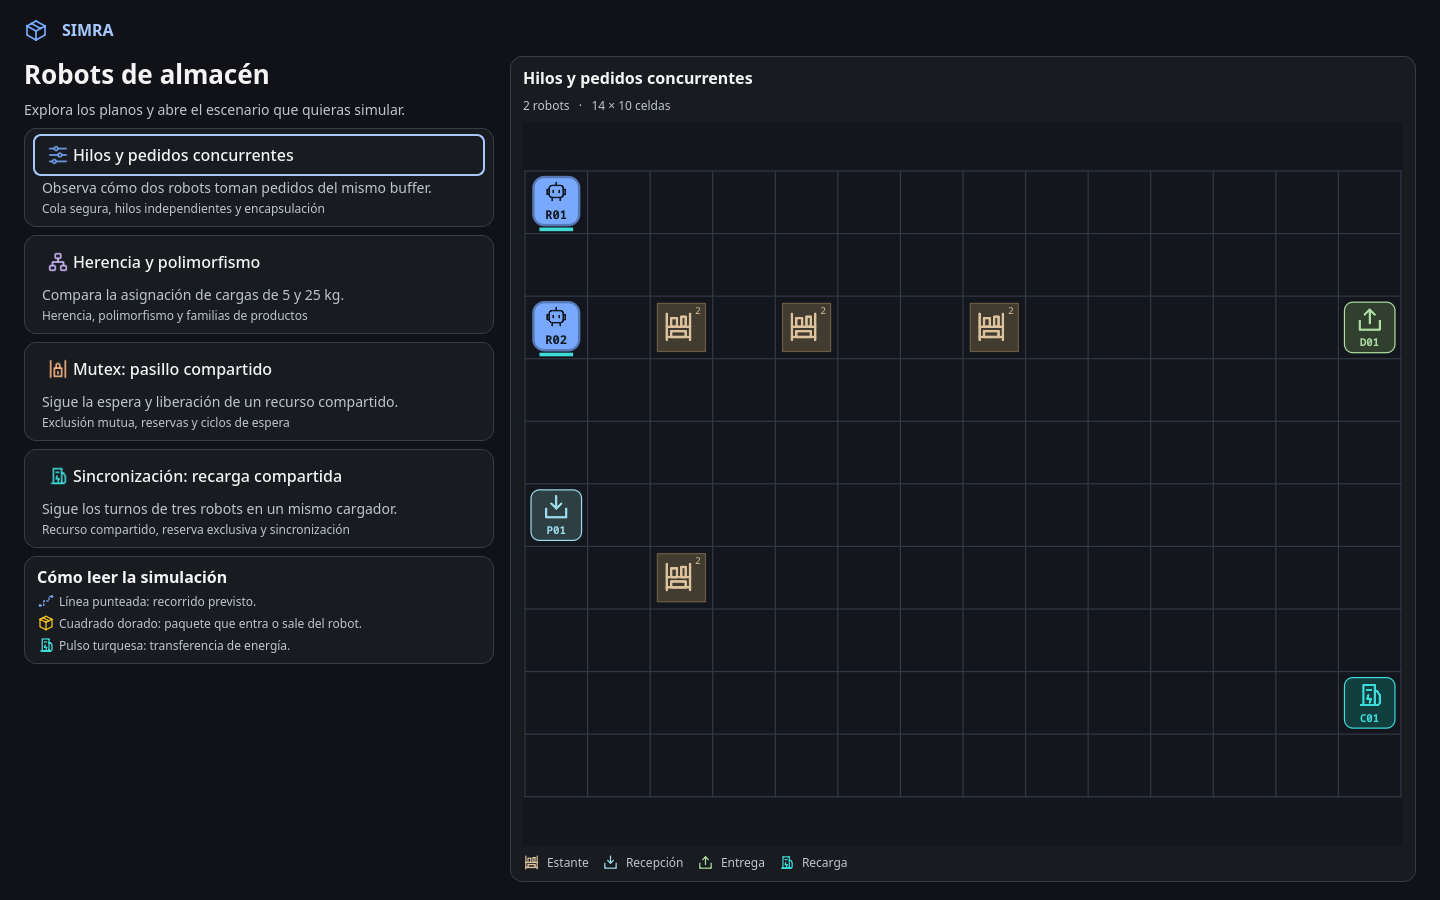
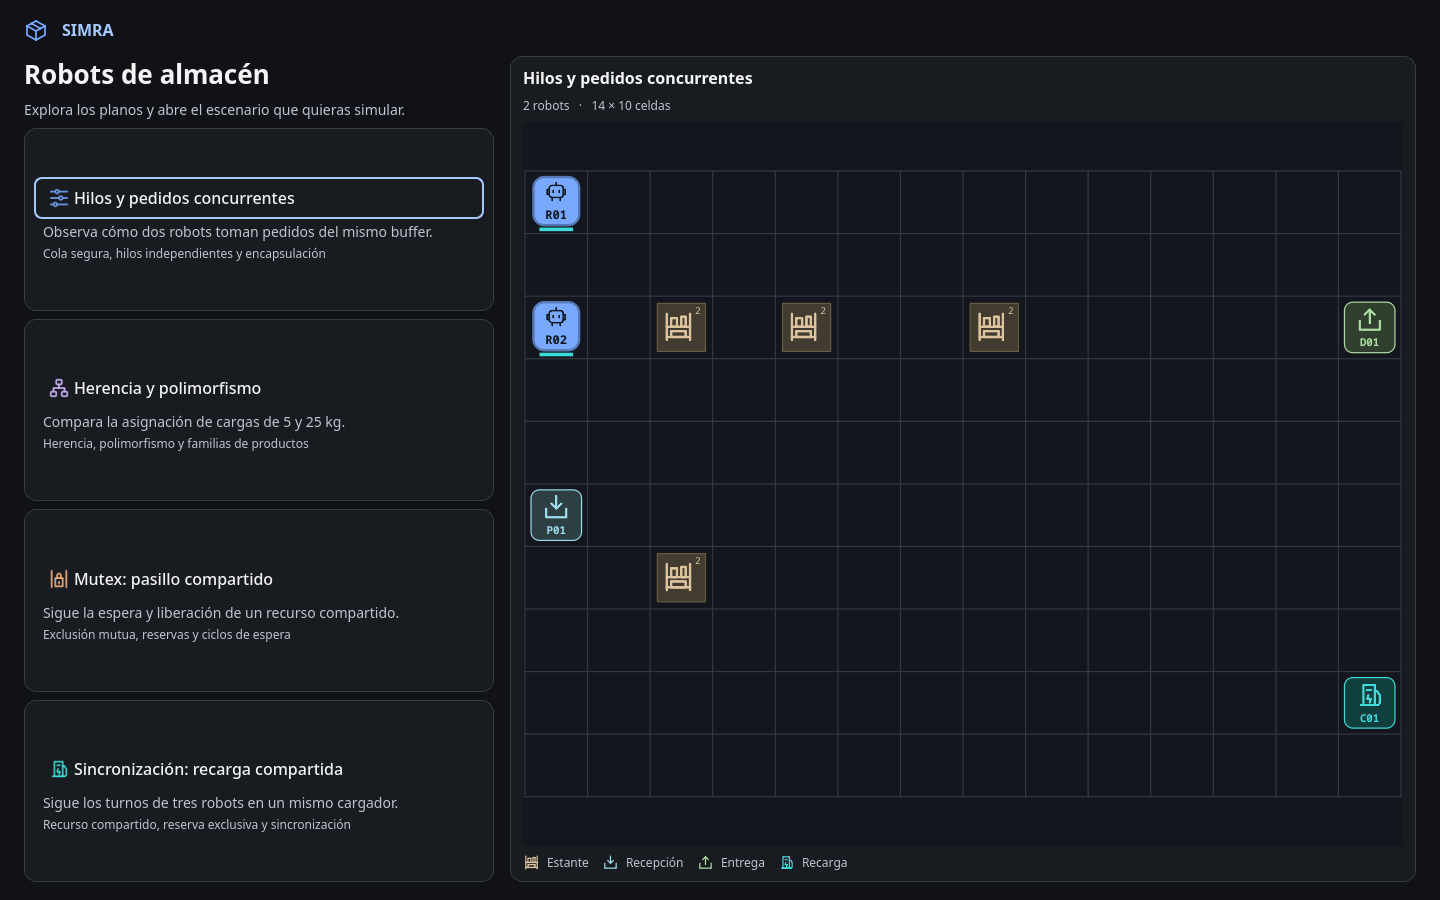
Balance the scenario selector and remove its reading guide

Changed region(s): [[0.0312, 0.4044, 0.2812, 0.7467], [0.0312, 0.1556, 0.3438, 0.3733], [0.0312, 0.84, 0.2812, 0.9333]]

diff --git a/src/scenario_hub.cpp b/src/scenario_hub.cpp
@@ -46,8 +46,9 @@ ScenarioHub::ScenarioHub(std::function<void(int)> openPreset,
     const auto &scenario = visual::scenarios[index];
     auto *card = visual::panel();
     auto *body = new QVBoxLayout(card);
-    body->setContentsMargins(8, 5, 8, 9);
-    body->setSpacing(2);
+    body->setContentsMargins(9, 6, 9, 6);
+    body->setSpacing(3);
+    body->setAlignment(Qt::AlignVCenter);
     auto *button = new QPushButton(visual::icon(scenario.symbol, QColor(accent[index])),
                                    scenario.title);
     button->setObjectName(QString("preset%1").arg(index));
@@ -69,28 +70,8 @@ ScenarioHub::ScenarioHub(std::function<void(int)> openPreset,
     concepts->setWordWrap(true);
     concepts->setContentsMargins(9, 0, 9, 0);
     body->addWidget(concepts);
-    list->addWidget(card);
+    list->addWidget(card, 1);
   }
-  auto *key = visual::panel();
-  auto *keyLayout = new QVBoxLayout(key);
-  keyLayout->setContentsMargins(12, 9, 12, 9);
-  keyLayout->setSpacing(4);
-  keyLayout->addWidget(visual::label("Cómo leer la simulación", "section"));
-  const auto addHint = [&](const char *symbol, const char *color, const char *text) {
-    auto *row = new QHBoxLayout;
-    auto *glyph = new QLabel;
-    glyph->setPixmap(visual::symbol(symbol, QColor(color), 18));
-    auto *message = visual::label(text, "caption");
-    message->setWordWrap(true);
-    row->addWidget(glyph);
-    row->addWidget(message, 1);
-    keyLayout->addLayout(row);
-  };
-  addHint("route", visual::light, "Línea punteada: recorrido previsto.");
-  addHint("cargo", visual::cargo, "Cuadrado dorado: paquete que entra o sale del robot.");
-  addHint("charge", visual::energy, "Pulso turquesa: transferencia de energía.");
-  list->addWidget(key);
-  list->addStretch();
   columns->addWidget(catalog, 4);
 
   auto *guide = visual::panel();

diff --git a/docs/design.md b/docs/design.md
@@ -1,6 +1,6 @@
 # Diseño visual de SIMRA
 
-La interfaz organiza la demostración alrededor de un plano técnico de almacén. El selector concentra los escenarios en una columna y aprovecha el resto para mostrar un plano real con su guía. Los fondos oscuros de la ventana, el plano y el panel lateral pertenecen a la misma escala.
+La interfaz organiza la demostración alrededor de un plano técnico de almacén. El selector distribuye los cuatro escenarios a lo largo de una columna. A su lado se muestran el plano del escenario enfocado, las dimensiones, la cantidad de robots y la leyenda. Los fondos oscuros de la ventana, el plano y el panel lateral pertenecen a la misma escala.
 
 ## Paleta y reglas de uso
 
